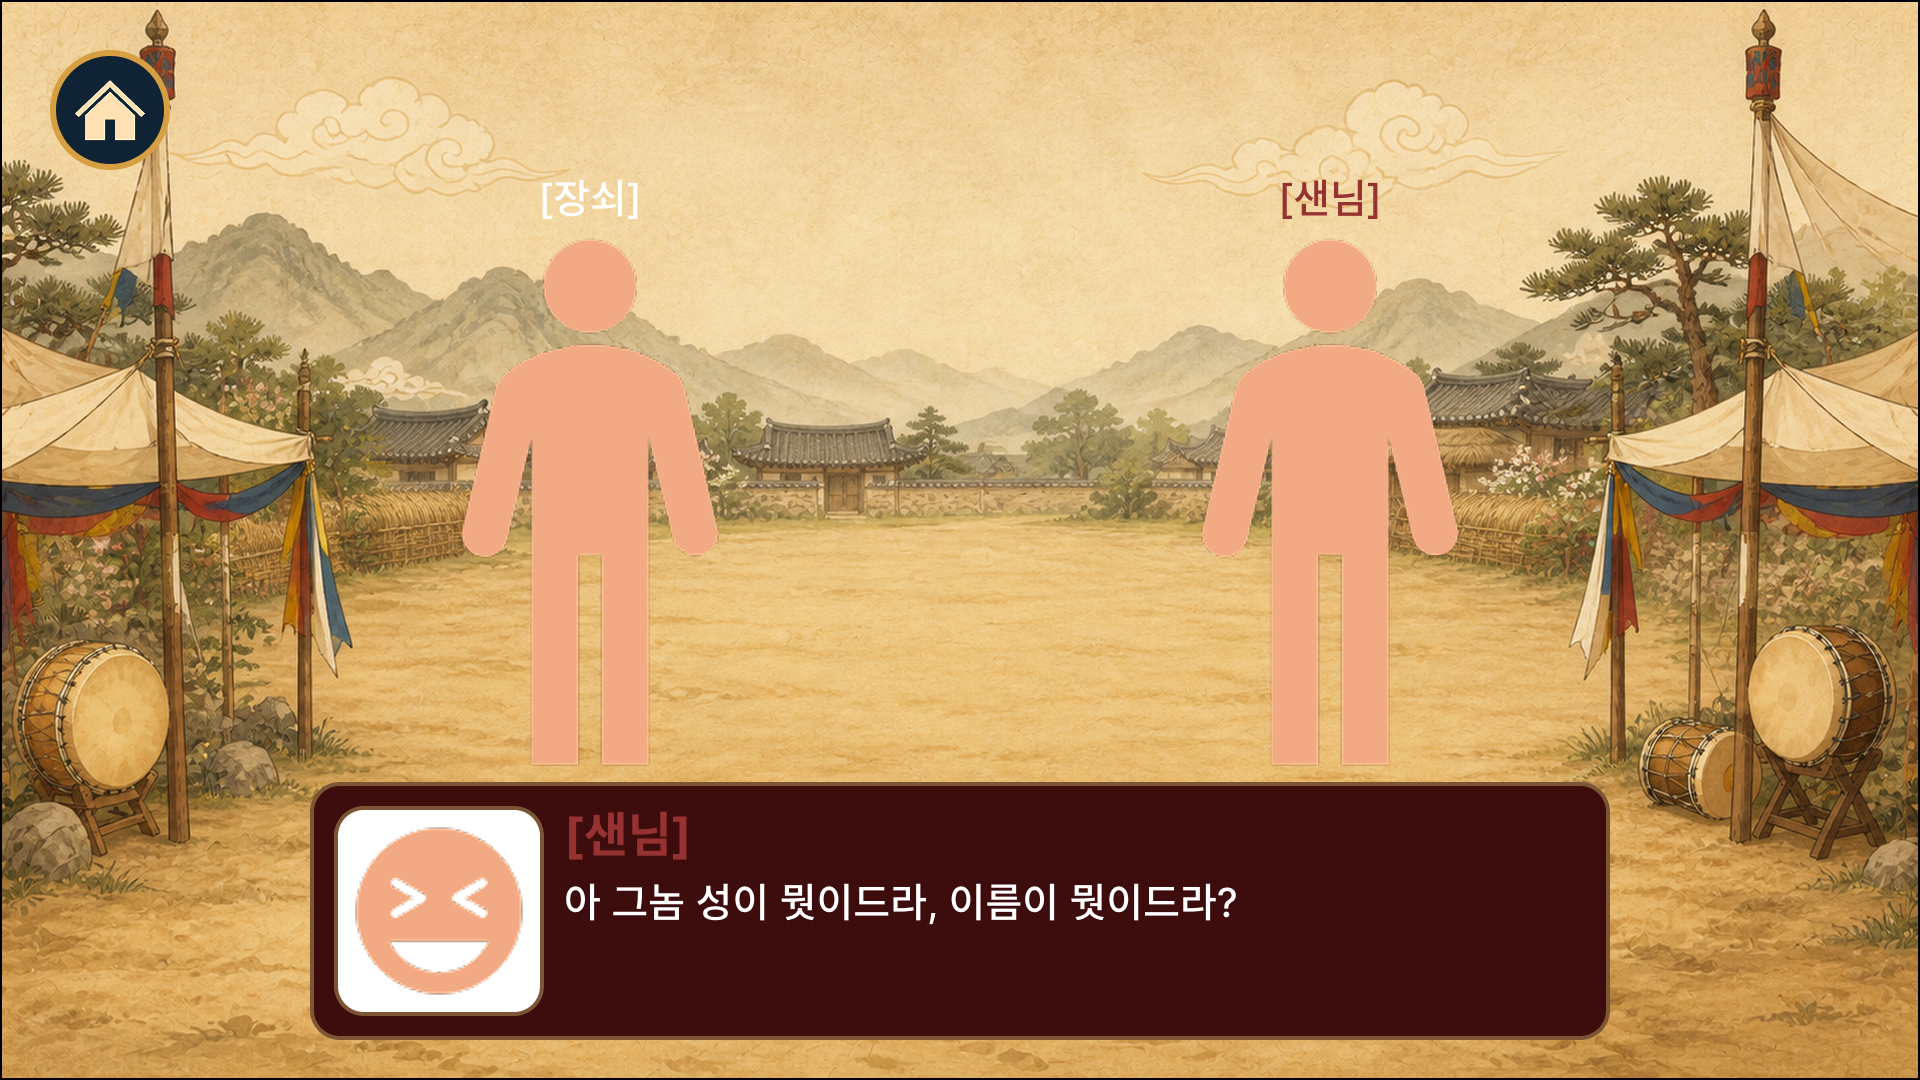
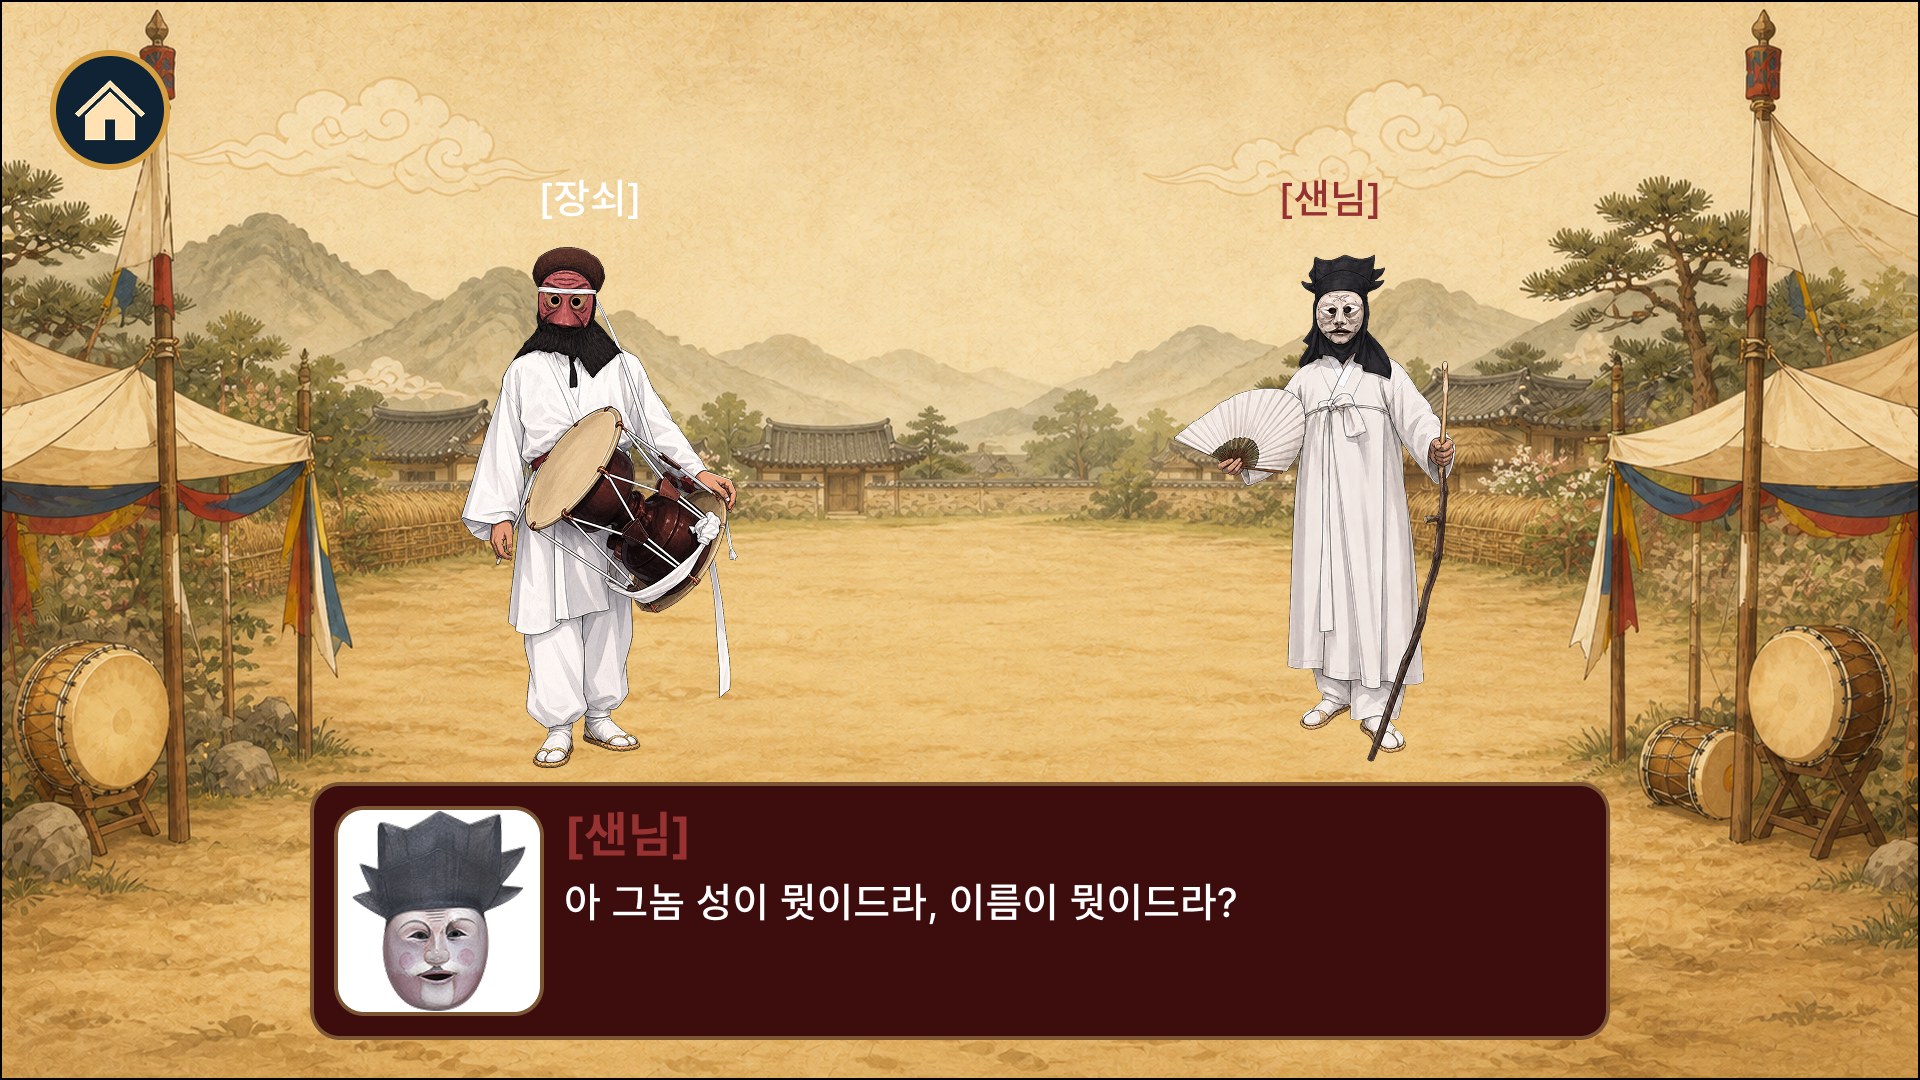
feat: 탈놀음 먹중잡이 콘텐츠 자산 일괄 반영

diff --git a/05_산출물/시범콘텐츠/05_덧뵈기 - 탈놀음 한바탕/덧뵈기 - 탈놀음 한바탕 기획서.md b/05_산출물/시범콘텐츠/05_덧뵈기 - 탈놀음 한바탕/덧뵈기 - 탈놀음 한바탕 기획서.md
@@ -558,7 +558,7 @@ updated: 2026-08-31
 
 ##### (1) 진행
 
-1. 옴탈 퇴장, 꺽쇠 화면 중앙 배치 및 진행 인디케이터 갱신
+1. 옴탈 퇴장, 꺽쇠 화면 중앙 배치 및 진행 인디케이터 숨김김
 2. 화면 좌우의 상, 중, 하 6개 지점에서 랜덤하게 옴탈의 탈이 꺽쇠에게 이동함
 	- 옴탈의 탈은 포물선 이동
 3. 유저가 팔을 휘두르면 모션 인식 후 꺽쇠가 팔 휘두르는 동작 실행
@@ -595,7 +595,7 @@ updated: 2026-08-31
 
 ##### (1) 진행
 
-1. 장쇠 화면 좌측 배치, 샌님 화면 우측 배치 및 '샌님' UI 표시
+1. 장쇠 화면 좌측 배치, 샌님 화면 우측 배치
 2. 장쇠와 샌님의 재담 진행
 
 #### 2) 샌님에게 인사하기
@@ -604,13 +604,11 @@ updated: 2026-08-31
 
 ##### (1) 진행
 
-1. 장쇠 퇴장, 샌님 화면 중앙 배치 및 화면 우상단에 진행 인디케이터 표시
+1. 장쇠 퇴장, 샌님 화면 중앙 배치 및 화면 상단에 진행 인디케이터 표시
 2. 샌님이 말뚝이 부르는 대사 후 조합 이벤트 발생
 3. 유저가 키워드 조합 진행
 4. 조합 결과 판정 및 반영
 	- 진행 점수(세션 데이터 / 수행 기록) 반영
-	- 진행 인디케이터 갱신
-		- 진행 점수 비율만큼 탈이 밑에서부터 붉게 차오르며 분노 표시 추가
 	- 조합 결과 별 말뚝이 대사 진행
 5. 다음 단계 진행
 
@@ -620,13 +618,11 @@ updated: 2026-08-31
 
 ##### (1) 진행
 
-1. 샌님 화면 중앙 배치 유지
+1. 샌님 화면 중앙 배치 유지 및 진행 인디케이터 갱신
 2. 샌님이 말뚝이에게 절 시키는 대사 후 조합 이벤트 발생
 3. 유저가 키워드 조합 진행
 4. 조합 결과 판정 및 반영
 	- 진행 점수(세션 데이터 / 수행 기록) 반영
-	- 진행 인디케이터 갱신
-		- 진행 점수 비율만큼 탈이 밑에서부터 붉게 차오르며 분노 표시 추가
 	- 조합 결과 별 말뚝이 대사 진행
 5. 다음 단계 진행
 
@@ -636,13 +632,11 @@ updated: 2026-08-31
 
 ##### (1) 진행
 
-1. 샌님 화면 중앙 배치 유지
+1. 샌님 화면 중앙 배치 유지 및 진행 인디케이터 갱신
 2. 샌님이 말뚝이에게 절 가르치는 대사 후 조합 이벤트 발생
 3. 유저가 키워드 조합 진행
 4. 조합 결과 판정 및 반영
 	- 진행 점수(세션 데이터 / 수행 기록) 반영
-	- 진행 인디케이터 갱신
-		- 진행 점수 비율만큼 탈이 밑에서부터 붉게 차오르며 분노 표시 추가
 	- 조합 결과 별 말뚝이 대사 진행
 5. 다음 단계 진행
 #### 5) 샌님 몰아내기
@@ -651,7 +645,7 @@ updated: 2026-08-31
 
 ##### (1) 진행
 
-1. 샌님 퇴장, 말뚝이 화면 중앙 배치 및 '샌님' UI 갱신
+1. 샌님 퇴장, 말뚝이 화면 중앙 배치 및 진행 인디케이터 숨김
 	- 화면 우상단의 진행 인디케이터 숨김
 	- 화면 상단에 몰아내기 진행 인디케이터 표시
 2. 화면 좌우의 상, 중, 하 6개 지점에서 랜덤하게 샌님의 탈이 말뚝이에게 이동함
@@ -662,7 +656,6 @@ updated: 2026-08-31
 		- 가만히 있을 경우 판정 X
 4. 모션 인식 결과 ROI 유효 판정 시 공격 성공 처리
 	- 진행 점수(세션 데이터 / 수행 기록) 반영
-	- 진행 인디케이터 갱신
 5. 지정된 횟수(데이터 테이블로 관리) 도달 시 다음 단계 진행
 
 #### 6) 마무리
@@ -685,29 +678,112 @@ updated: 2026-08-31
 
 #### 1) 시작
 
+<img src="../../../assets/시범콘텐츠/탈놀음/먹중_시작.png"  width=500 >
+
+##### (1) 진행
+
+1. 장쇠 화면 좌측 배치, 취발이 화면 우측 배치
+2. 장쇠와 취발이이의 재담 진행
+
 #### 2) 먹중 신분 폭로
+
+<img src="../../../assets/시범콘텐츠/탈놀음/먹중_신분폭로.png"  width=500 >
+
+##### (1) 진행
+
+1. 장쇠와 취발이 퇴장, 먹중 화면 중앙 배치 및 화면 상단에 신분 폭로 아이콘 표시
+	- 증거 조합 전에는 무채색 처리리
+2. 신분 증거 활성화
+	- 모자, 의상
+3. 유저가 모자와 의상을 선택하면 신분 증거 조합 성공 처리
+4. 다음 진행
 
 #### 3) 흠결 폭로 진행
 
 ##### (1) 개요
 
-##### (2) 흠결 폭로- 향락
+- 정해진 순서 없이 화면의 소품과 인물(피조리 갑/을, 꺽쇠, 취발이)을 선택하여 먹중의 흠결에 대한 정보를 수집하고 위선을 폭로함
 
-##### (3) 흠결 폭로 - 여색
+##### (2) 사전 처리
 
-##### (4) 흠결 폭로 - 폭력
+1. 소품 및 인물 표시
+	- 인물은 2조(피조리 갑/을, 꺽쇠/말뚝이)로 구성되며 '피조리 갑/을'을 기본값으로 표시
+	- 인물은 화면의 인물 교체 버튼 터치로 변경 가능
+2. 화면 상단에 추가 폭로 아이콘 표시
+	- 향락, 여색, 폭력, 사기
+	- 각 아이콘은 아직 증거 수집 전이므로 무채색 표시
 
-##### (5) 흠결 폭로 - 사기
+##### (3) 흠결 폭로- 향락
+
+<img src="../../../assets/시범콘텐츠/탈놀음/먹중_향락폭로.png"  width=500 >
+
+1. 유저가 부서진 술상과 염주를 선택하면 향락 증거 조합 성공 처리
+2. 상단의 향락 증거 아이콘 유채색 처리
+3. 다음 진행
+
+##### (4) 흠결 폭로 - 여색
+
+<img src="../../../assets/시범콘텐츠/탈놀음/먹중_여색폭로.png"  width=500 >
+
+1. 유저가 피조리 갑/을과 먹중을 선택하면 여색 증거 조합 성공 처리
+2. 상단의 여색색 증거 아이콘 유채색 처리
+3. 다음 진행
+
+##### (5) 흠결 폭로 - 폭력
+
+<img src="../../../assets/시범콘텐츠/탈놀음/먹중_폭력폭로.png"  width=500 >
+
+1. 유저가 무서진 술상과 말뚝이를 선택하면 폭력 증거 조합 성공 처리
+2. 상단의 폭력 증거 아이콘 유채색 처리
+3. 다음 진행
+
+##### (6) 흠결 폭로 - 사기
+
+<img src="../../../assets/시범콘텐츠/탈놀음/먹중_사기폭로.png"  width=500 >
+
+1. 유저가 꺽쇠와 먹중 허리춤의 부적을 선택하면 사기 증거 조합 성공 처리
+2. 상단의 사기 증거 아이콘 유채색 처리
+3. 다음 진행
 
 #### 4) 먹중 몰아내기
 
+<img src="../../../assets/시범콘텐츠/탈놀음/먹중_몰아내기.png"  width=500 >
+
+##### (1) 진행 조건
+
+- 모든 위선 폭로 진행 완료
+
+##### (2) 진행
+
+1. 먹중 및 증거 인물  퇴장, 취발이 화면 중앙 배치 및 '취발이' UI 갱신
+	- 화면 우상단의 진행 인디케이터 숨김
+	- 화면 상단에 몰아내기 진행 인디케이터 표시
+2. 화면 좌우의 상, 중, 하 6개 지점에서 랜덤하게 먹중의 탈이 취발이에게 이동함
+	- 먹중의 탈은 포물선 이동
+3. 유저가 팔을 휘두르면 모션 인식 후 취발이가 팔 휘두르는 동작 실행
+	- 모션 인식 후 동작 실행까지 걸리는 시간이 짧아야 함
+	- 모션 인식이 일정 값 이상일 경우에 ROI 유효 판정 실행
+		- 가만히 있을 경우 판정 X
+4. 모션 인식 결과 ROI 유효 판정 시 공격 성공 처리
+	- 진행 점수(세션 데이터 / 수행 기록) 반영
+	- 진행 인디케이터 갱신
+5. 지정된 횟수(데이터 테이블로 관리) 도달 시 다음 단계 진행
+
 #### 5) 마무리
 
+<img src="../../../assets/시범콘텐츠/탈놀음/먹중_마무리.png"  width=500 >
 
+##### (1) 진행
+
+1. 취발이 화면 우측 배치, 먹중 등장 및 화면 좌측 배치
+2. 취발이 마무리 대사 진행
+3. 먹중이 우스꽝스럽게 화면 밖으로 퇴장
+4. 다음 단계 진행
 
 # 7. 마무리 진행
 
 ## 7.1 개요
+
 
 
 ## 7.2 진행

diff --git a/99_Logs/log.md b/99_Logs/log.md
@@ -7,6 +7,11 @@ updated: 2026-08-31
 
 # 작업 로그
 
+## [2026-08-31] update | 탈놀음 기획서와 이미지 자산 일괄 반영
+
+- 사용자 요청에 따라 현재 작업 트리에 있던 탈놀음 기획서, 장면 이미지, 위선 아이콘, 증거 소품과 임시 참고 이미지를 한 번에 커밋함
+- 반영 범위: `05_산출물/시범콘텐츠/05_덧뵈기 - 탈놀음 한바탕/`, `assets/시범콘텐츠/탈놀음/`, `assets/임시/`
+
 ## [2026-08-31] create | 먹중잡이 위선 유형 아이콘 5종 생성
 
 - 먹중잡이 화면 상단 진행 상태 표시에 쓸 신분, 향락, 여색, 폭력과 사기 아이콘을 생성함
